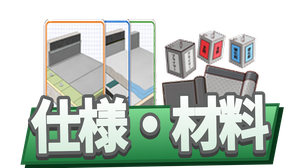
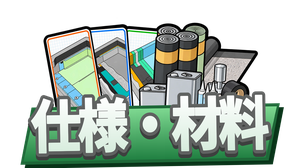
仕様・材料のメインアイコンを新しい絵に作り直し・上帯の絵を大きく（2026-10-29b）
Claude-Session: https://claude.ai/code/session_012TbevZkSnV7PXPipbhycVU

Changed region(s): [[0.12, 0.119, 0.87, 0.6548]]

diff --git a/zairyo_toroku.html b/zairyo_toroku.html
@@ -535,7 +535,7 @@ nav::-webkit-scrollbar{display:none;}
 
 <header>
   <button class="new-btn nn-back nn-backimg" onclick="nnBack()" title="ひとつ前に戻る"><img src="./icons/btn_back.png?v=2026-09-07e" alt="戻る" onerror="var b=this.parentElement;b.classList.remove('nn-backimg');b.textContent='↩';"></button>
-  <span class="hicon"><img src="./icons/icon_shiyou.png?v=2026-10-29a" alt="" style="height:28px;vertical-align:middle" onerror="this.parentElement.textContent=ICONS.header"></span>
+  <span class="hicon"><img src="./icons/icon_shiyou.png?v=2026-10-29b" alt="" style="height:28px;vertical-align:middle" onerror="this.parentElement.textContent=ICONS.header"></span>
   <h1><span class="nnTtl">仕様・材料</span></h1>
   <span class="hco"><small>メーカー品番と単価の材料マスタ</small></span>
   <span class="count">登録済 <span id="cntMine" class="num">0</span> 品<span class="np" id="cntNoPrice" style="display:none">単価未設定 0</span></span>
@@ -1211,7 +1211,7 @@ function buildNav(){
   n.innerHTML=NAV.map(([k,l])=>{
     const suf=(k===NAV_ACTIVE)?'_on':'';
     return `<div class="ni ${k===NAV_ACTIVE?'on':''}" onclick="navGo('${k}','${l}')">
-      <span class="ic"><img src="./icons/nav_${k}${suf}.png?v=2026-10-27a" alt="${l}"
+      <span class="ic"><img src="./icons/nav_${k}${suf}.png?v=2026-10-29b" alt="${l}"
         onload="this.closest('.ni').classList.add('hasimg')"
         onerror="if(!this.dataset.f){this.dataset.f=1;this.src='./icons/nav_${k}.png';}
                  else{this.outerHTML=ICONS['${k}']||'▫';}"></span><span>${l}</span></div>`;
@@ -1618,7 +1618,7 @@ nav, nav#nav{justify-content:center !important; padding-left:6px !important; pad
    古いものが出続けることがある。そこで ver.txt（数バイト）だけを
    毎回見に行き、公開版と違っていたら保存分を捨てて1回だけ読み直す。
    ★公開のたびに ver.txt と、下の NN_VER を同じ文字に更新すること。 */
-const NN_VER='2026-10-29a';
+const NN_VER='2026-10-29b';
 /* ============ 表示にかかった時間の記録（原因調査用・2026-07-28） ============
    スマホの実機でどこに時間がかかっているかを数字で出す。
    ・net  ＝ページを要求してから最初の返事が来るまで（通信の待ち）

diff --git a/shiyo_toroku.html b/shiyo_toroku.html
@@ -667,7 +667,7 @@ html[data-nnphone="1"] #detail .dstd .step-tbl td{padding:2px 4px !important;}
 
 <header>
   <button class="new-btn nn-back nn-backimg" onclick="nnBack()" title="ひとつ前に戻る"><img src="./icons/btn_back.png?v=2026-09-07e" alt="戻る" onerror="var b=this.parentElement;b.classList.remove('nn-backimg');b.textContent='↩';"></button>
-  <span class="hicon"><img src="./icons/icon_shiyou.png?v=2026-10-29a" alt="" style="height:28px;vertical-align:middle" onerror="this.parentElement.textContent=ICONS.header"></span>
+  <span class="hicon"><img src="./icons/icon_shiyou.png?v=2026-10-29b" alt="" style="height:28px;vertical-align:middle" onerror="this.parentElement.textContent=ICONS.header"></span>
   <h1><span class="nnTtl">仕様・材料</span></h1>
   <span class="hco"><small>自社の防水仕様をつくって保存</small></span>
   <span class="count">マイ仕様 <span id="cntMine" class="num">0</span> 件</span>
@@ -1398,7 +1398,7 @@ function buildNav(){
   n.innerHTML=NAV.map(([k,l])=>{
     const suf=(k===NAV_ACTIVE)?'_on':'';
     return `<div class="ni ${k===NAV_ACTIVE?'on':''}" onclick="navGo('${k}','${l}')">
-      <span class="ic"><img src="./icons/nav_${k}${suf}.png?v=2026-10-27a" alt="${l}"
+      <span class="ic"><img src="./icons/nav_${k}${suf}.png?v=2026-10-29b" alt="${l}"
         onload="this.closest('.ni').classList.add('hasimg')"
         onerror="if(!this.dataset.f){this.dataset.f=1;this.src='./icons/nav_${k}.png';}
                  else{this.outerHTML=ICONS['${k}']||'▫';}"></span><span>${l}</span></div>`;
@@ -1833,7 +1833,7 @@ nav, nav#nav{justify-content:center !important; padding-left:6px !important; pad
    古いものが出続けることがある。そこで ver.txt（数バイト）だけを
    毎回見に行き、公開版と違っていたら保存分を捨てて1回だけ読み直す。
    ★公開のたびに ver.txt と、下の NN_VER を同じ文字に更新すること。 */
-const NN_VER='2026-10-29a';
+const NN_VER='2026-10-29b';
 /* ============ 表示にかかった時間の記録（原因調査用・2026-07-28） ============
    スマホの実機でどこに時間がかかっているかを数字で出す。
    ・net  ＝ページを要求してから最初の返事が来るまで（通信の待ち）

diff --git a/common.css b/common.css
@@ -203,3 +203,11 @@ html[data-nnphone="1"] body header#nnHdr h1 .nnTtl{font-size:calc(20px * var(--n
    画面が横へ数pxずれる（指で横に払うと動く）。全ページ共通。→ スマホの下のナビだけ「横方向のはみ出し」を切る。
    上へはみ出して見せている絵（アイコンが帯より上に出る作り）はそのまま（overflow-y は visible のまま）。パソコンの左の帯（わざと右へはみ出す・nnOvf）には効かせない */
 html:root[data-nnphone="1"] body nav#nav, html:root[data-nnphone="1"] body > nav{overflow-x:clip !important; overflow-y:visible !important;}
+
+/* ★2026-10-29b 本人「上帯の画像アイコンをもっと大きく。わかりやすいように」：仕様・材料（icon_shiyou・横長 240×124）だけ絵の入れ物を広げる
+   PC 66×48→96×50・スマホ 56×40→80×42。横長の絵なので、ほかと同じ入れ物だと幅で縮んで高さ34px しか出ていなかった。
+   重ねる量（PC 28・スマホ 22）と絵→文字の距離は §824 のまま（入れ物を広げただけ） */
+html:root body header:is(header,#topbar,#nnHdX):has(.hicon img[src*="icon_shiyou"]) .hicon:not(#nnHdX){width:calc(96px * var(--nnhm,1)) !important;}
+html:root body header:is(header,#topbar,#nnHdX):has(.hicon img[src*="icon_shiyou"]) .hicon:not(#nnHdX) img{height:calc(50px * var(--nnhm,1)) !important; width:calc(96px * var(--nnhm,1)) !important; margin:calc(-8px * var(--nnhm,1)) 0 !important;}
+html:root[data-nnphone="1"] body header:is(header,#topbar,#nnHdX):has(.hicon img[src*="icon_shiyou"]) .hicon:not(#nnHdX){width:calc(80px * var(--nnsaf,1)) !important;}
+html:root[data-nnphone="1"] body header:is(header,#topbar,#nnHdX):has(.hicon img[src*="icon_shiyou"]) .hicon:not(#nnHdX) img{height:calc(42px * var(--nnsaf,1)) !important; width:calc(80px * var(--nnsaf,1)) !important; margin:calc(-6px * var(--nnsaf,1)) 0 !important;}

diff --git a/index.html b/index.html
@@ -513,7 +513,7 @@ nav, nav#nav{overflow:visible; padding-top:2px;}
 
 <!-- 版の表示：スマホに届いている中身がどれかを、お互いに確認するための小さな印。
      不要になったらこの1行と #nnver の指定を消してください。 -->
-<div id="nnver">v2026-10-29 a</div>
+<div id="nnver">v2026-10-29 b</div>
 <script>
 /* ============ 実機の計測結果を表示（原因調査用・2026-07-28） ============
    数字の意味（単位はミリ秒）
@@ -615,7 +615,7 @@ function buildNav(){
   n.innerHTML=NAV.map(([k,l])=>{
     const suf=(k===NAV_ACTIVE)?'_on':'';
     return `<div class="ni ${k===NAV_ACTIVE?'on':''}" onclick="navGo('${k}','${l}')">
-      <span class="ic"><img src="./icons/nav_${k}${suf}.png?v=2026-10-27a" alt="${l}"
+      <span class="ic"><img src="./icons/nav_${k}${suf}.png?v=2026-10-29b" alt="${l}"
         onload="this.closest('.ni').classList.add('hasimg')"
         onerror="if(!this.dataset.f){this.dataset.f=1;this.src='./icons/nav_${k}.png';}
                  else{this.outerHTML=ICONS['${k}']||'▫';}"></span><span>${l}</span></div>`;
@@ -870,7 +870,7 @@ nav, nav#nav{justify-content:center !important; padding-left:6px !important; pad
    古いものが出続けることがある。そこで ver.txt（数バイト）だけを
    毎回見に行き、公開版と違っていたら保存分を捨てて1回だけ読み直す。
    ★公開のたびに ver.txt と、下の NN_VER を同じ文字に更新すること。 */
-const NN_VER='2026-10-29a';
+const NN_VER='2026-10-29b';
 /* ============ 表示にかかった時間の記録（原因調査用・2026-07-28） ============
    スマホの実機でどこに時間がかかっているかを数字で出す。
    ・net  ＝ページを要求してから最初の返事が来るまで（通信の待ち）

diff --git a/kokkosho.html b/kokkosho.html
@@ -1910,7 +1910,7 @@ function buildNav(){
   n.innerHTML=NAV.map(([k,l])=>{
     const suf=(k===NAV_ACTIVE)?'_on':'';
     return `<div class="ni ${k===NAV_ACTIVE?'on':''}" onclick="navGo('${k}','${l}')">
-      <span class="ic"><img src="./icons/nav_${k}${suf}.png?v=2026-10-27a" alt="${l}"
+      <span class="ic"><img src="./icons/nav_${k}${suf}.png?v=2026-10-29b" alt="${l}"
         onload="this.closest('.ni').classList.add('hasimg')"
         onerror="if(!this.dataset.f){this.dataset.f=1;this.src='./icons/nav_${k}.png';}
                  else{this.outerHTML=NAV_ICONS['${k}']||'▫';}"></span><span>${l}</span></div>`;
@@ -2496,7 +2496,7 @@ nav, nav#nav{justify-content:center !important; padding-left:6px !important; pad
    古いものが出続けることがある。そこで ver.txt（数バイト）だけを
    毎回見に行き、公開版と違っていたら保存分を捨てて1回だけ読み直す。
    ★公開のたびに ver.txt と、下の NN_VER を同じ文字に更新すること。 */
-const NN_VER='2026-10-29a';
+const NN_VER='2026-10-29b';
 /* ============ 表示にかかった時間の記録（原因調査用・2026-07-28） ============
    スマホの実機でどこに時間がかかっているかを数字で出す。
    ・net  ＝ページを要求してから最初の返事が来るまで（通信の待ち）

diff --git a/genba_map_v36.html b/genba_map_v36.html
@@ -4860,7 +4860,7 @@ function buildNav(){
   n.innerHTML=NAV.map(([k,l])=>{
     const suf=(k===NAV_ACTIVE)?'_on':'';
     return `<div class="ni ${k===NAV_ACTIVE?'on':''}" onclick="navGo('${k}','${l}')">
-      <span class="ic"><img src="./icons/nav_${k}${suf}.png?v=2026-10-27a" alt="${l}"
+      <span class="ic"><img src="./icons/nav_${k}${suf}.png?v=2026-10-29b" alt="${l}"
         onload="this.closest('.ni').classList.add('hasimg')"
         onerror="if(!this.dataset.f){this.dataset.f=1;this.src='./icons/nav_${k}.png';}
                  else{this.outerHTML=ICONS['${k}']||'▫';}"></span><span>${l}</span></div>`;
@@ -5049,7 +5049,7 @@ nav, nav#nav{justify-content:center !important; padding-left:6px !important; pad
    古いものが出続けることがある。そこで ver.txt（数バイト）だけを
    毎回見に行き、公開版と違っていたら保存分を捨てて1回だけ読み直す。
    ★公開のたびに ver.txt と、下の NN_VER を同じ文字に更新すること。 */
-const NN_VER='2026-10-29a';
+const NN_VER='2026-10-29b';
 /* ============ 表示にかかった時間の記録（原因調査用・2026-07-28） ============
    スマホの実機でどこに時間がかかっているかを数字で出す。
    ・net  ＝ページを要求してから最初の返事が来るまで（通信の待ち）

diff --git a/kirokucho_demo.html b/kirokucho_demo.html
@@ -3272,7 +3272,7 @@ function buildNav(){
   n.innerHTML=NAV.map(([k,l])=>{
     const suf=(k===NAV_ACTIVE)?'_on':'';
     return `<div class="ni ${k===NAV_ACTIVE?'on':''}" onclick="navGo('${k}','${l}')">
-      <span class="ic"><img src="./icons/nav_${k}${suf}.png?v=2026-10-27a" alt="${l}"
+      <span class="ic"><img src="./icons/nav_${k}${suf}.png?v=2026-10-29b" alt="${l}"
         onload="this.closest('.ni').classList.add('hasimg')"
         onerror="if(!this.dataset.f){this.dataset.f=1;this.src='./icons/nav_${k}.png';}
                  else{this.outerHTML=ICONS['${k}']||'▫';}"></span><span>${l}</span></div>`;
@@ -4932,7 +4932,7 @@ nav, nav#nav{justify-content:center !important; padding-left:6px !important; pad
    古いものが出続けることがある。そこで ver.txt（数バイト）だけを
    毎回見に行き、公開版と違っていたら保存分を捨てて1回だけ読み直す。
    ★公開のたびに ver.txt と、下の NN_VER を同じ文字に更新すること。 */
-const NN_VER='2026-10-29a';
+const NN_VER='2026-10-29b';
 /* ============ 表示にかかった時間の記録（原因調査用・2026-07-28） ============
    スマホの実機でどこに時間がかかっているかを数字で出す。
    ・net  ＝ページを要求してから最初の返事が来るまで（通信の待ち）

diff --git a/zumen_sekisan.html b/zumen_sekisan.html
@@ -5887,7 +5887,7 @@ function buildNav(){
   n.innerHTML=NAV.map(([k,l])=>{
     const suf=(k===NAV_ACTIVE)?'_on':'';
     return `<div class="ni ${k===NAV_ACTIVE?'on':''}" onclick="navGo('${k}','${l}')">
-      <span class="ic"><img src="./icons/nav_${k}${suf}.png?v=2026-10-27a" alt="${l}"
+      <span class="ic"><img src="./icons/nav_${k}${suf}.png?v=2026-10-29b" alt="${l}"
         onload="this.closest('.ni').classList.add('hasimg')"
         onerror="if(!this.dataset.f){this.dataset.f=1;this.src='./icons/nav_${k}.png';}
                  else{this.outerHTML=ICONS['${k}']||'▫';}"></span><span>${l}</span></div>`;
@@ -6348,7 +6348,7 @@ nav, nav#nav{justify-content:center !important; padding-left:6px !important; pad
    古いものが出続けることがある。そこで ver.txt（数バイト）だけを
    毎回見に行き、公開版と違っていたら保存分を捨てて1回だけ読み直す。
    ★公開のたびに ver.txt と、下の NN_VER を同じ文字に更新すること。 */
-const NN_VER='2026-10-29a';
+const NN_VER='2026-10-29b';
 /* ============ 表示にかかった時間の記録（原因調査用・2026-07-28） ============
    スマホの実機でどこに時間がかかっているかを数字で出す。
    ・net  ＝ページを要求してから最初の返事が来るまで（通信の待ち）

diff --git a/camera.html b/camera.html
@@ -337,7 +337,7 @@ function buildNav(){
   n.innerHTML=NAV.map(([k,l])=>{
     const suf=(k===NAV_ACTIVE)?'_on':'';
     return `<div class="ni ${k===NAV_ACTIVE?'on':''}" onclick="navGo('${k}','${l}')">
-      <span class="ic"><img src="./icons/nav_${k}${suf}.png?v=2026-10-27a" alt="${l}"
+      <span class="ic"><img src="./icons/nav_${k}${suf}.png?v=2026-10-29b" alt="${l}"
         onload="this.closest('.ni').classList.add('hasimg')"
         onerror="if(!this.dataset.f){this.dataset.f=1;this.src='./icons/nav_${k}.png';}
                  else{this.outerHTML=ICONS['${k}']||'▫';}"></span><span>${l}</span></div>`;
@@ -1301,7 +1301,7 @@ nav, nav#nav{justify-content:center !important; padding-left:6px !important; pad
    古いものが出続けることがある。そこで ver.txt（数バイト）だけを
    毎回見に行き、公開版と違っていたら保存分を捨てて1回だけ読み直す。
    ★公開のたびに ver.txt と、下の NN_VER を同じ文字に更新すること。 */
-const NN_VER='2026-10-29a';
+const NN_VER='2026-10-29b';
 /* ============ 表示にかかった時間の記録（原因調査用・2026-07-28） ============
    スマホの実機でどこに時間がかかっているかを数字で出す。
    ・net  ＝ページを要求してから最初の返事が来るまで（通信の待ち）

diff --git a/hacchu.html b/hacchu.html
@@ -381,7 +381,7 @@ function buildNav(){
   n.innerHTML=NAV.map(([k,l])=>{
     const suf=(k===NAV_ACTIVE)?'_on':'';
     return `<div class="ni ${k===NAV_ACTIVE?'on':''}" onclick="navGo('${k}','${l}')">
-      <span class="ic"><img src="./icons/nav_${k}${suf}.png?v=2026-10-27a" alt="${l}"
+      <span class="ic"><img src="./icons/nav_${k}${suf}.png?v=2026-10-29b" alt="${l}"
         onload="this.closest('.ni').classList.add('hasimg')"
         onerror="if(!this.dataset.f){this.dataset.f=1;this.src='./icons/nav_${k}.png';}
                  else{this.outerHTML=ICONS['${k}']||'▫';}"></span><span>${l}</span></div>`;
@@ -1131,7 +1131,7 @@ nav, nav#nav{justify-content:center !important; padding-left:6px !important; pad
    古いものが出続けることがある。そこで ver.txt（数バイト）だけを
    毎回見に行き、公開版と違っていたら保存分を捨てて1回だけ読み直す。
    ★公開のたびに ver.txt と、下の NN_VER を同じ文字に更新すること。 */
-const NN_VER='2026-10-29a';
+const NN_VER='2026-10-29b';
 /* ============ 表示にかかった時間の記録（原因調査用・2026-07-28） ============
    スマホの実機でどこに時間がかかっているかを数字で出す。
    ・net  ＝ページを要求してから最初の返事が来るまで（通信の待ち）

diff --git a/library.html b/library.html
@@ -420,7 +420,7 @@ function buildNav(){
   n.innerHTML=NAV.map(([k,l])=>{
     const suf=(k===NAV_ACTIVE)?'_on':'';
     return `<div class="ni ${k===NAV_ACTIVE?'on':''}" onclick="navGo('${k}','${l}')">
-      <span class="ic"><img src="./icons/nav_${k}${suf}.png?v=2026-10-27a" alt="${l}"
+      <span class="ic"><img src="./icons/nav_${k}${suf}.png?v=2026-10-29b" alt="${l}"
         onload="this.closest('.ni').classList.add('hasimg')"
         onerror="if(!this.dataset.f){this.dataset.f=1;this.src='./icons/nav_${k}.png';}
                  else{this.outerHTML=ICONS['${k}']||'▫';}"></span><span>${l}</span></div>`;
@@ -1198,7 +1198,7 @@ nav, nav#nav{justify-content:center !important; padding-left:6px !important; pad
    古いものが出続けることがある。そこで ver.txt（数バイト）だけを
    毎回見に行き、公開版と違っていたら保存分を捨てて1回だけ読み直す。
    ★公開のたびに ver.txt と、下の NN_VER を同じ文字に更新すること。 */
-const NN_VER='2026-10-29a';
+const NN_VER='2026-10-29b';
 /* ============ 表示にかかった時間の記録（原因調査用・2026-07-28） ============
    スマホの実機でどこに時間がかかっているかを数字で出す。
    ・net  ＝ページを要求してから最初の返事が来るまで（通信の待ち）

diff --git a/yougo.html b/yougo.html
@@ -320,7 +320,7 @@ function buildNav(){
   n.innerHTML=NAV.map(([k,l])=>{
     const suf=(k===NAV_ACTIVE)?'_on':'';
     return `<div class="ni ${k===NAV_ACTIVE?'on':''}" onclick="navGo('${k}','${l}')">
-      <span class="ic"><img src="./icons/nav_${k}${suf}.png?v=2026-10-27a" alt="${l}"
+      <span class="ic"><img src="./icons/nav_${k}${suf}.png?v=2026-10-29b" alt="${l}"
         onload="this.closest('.ni').classList.add('hasimg')"
         onerror="if(!this.dataset.f){this.dataset.f=1;this.src='./icons/nav_${k}.png';}
                  else{this.outerHTML=ICONS['${k}']||'▫';}"></span><span>${l}</span></div>`;
@@ -1434,7 +1434,7 @@ nav, nav#nav{justify-content:center !important; padding-left:6px !important; pad
    古いものが出続けることがある。そこで ver.txt（数バイト）だけを
    毎回見に行き、公開版と違っていたら保存分を捨てて1回だけ読み直す。
    ★公開のたびに ver.txt と、下の NN_VER を同じ文字に更新すること。 */
-const NN_VER='2026-10-29a';
+const NN_VER='2026-10-29b';
 /* ============ 表示にかかった時間の記録（原因調査用・2026-07-28） ============
    スマホの実機でどこに時間がかかっているかを数字で出す。
    ・net  ＝ページを要求してから最初の返事が来るまで（通信の待ち）
